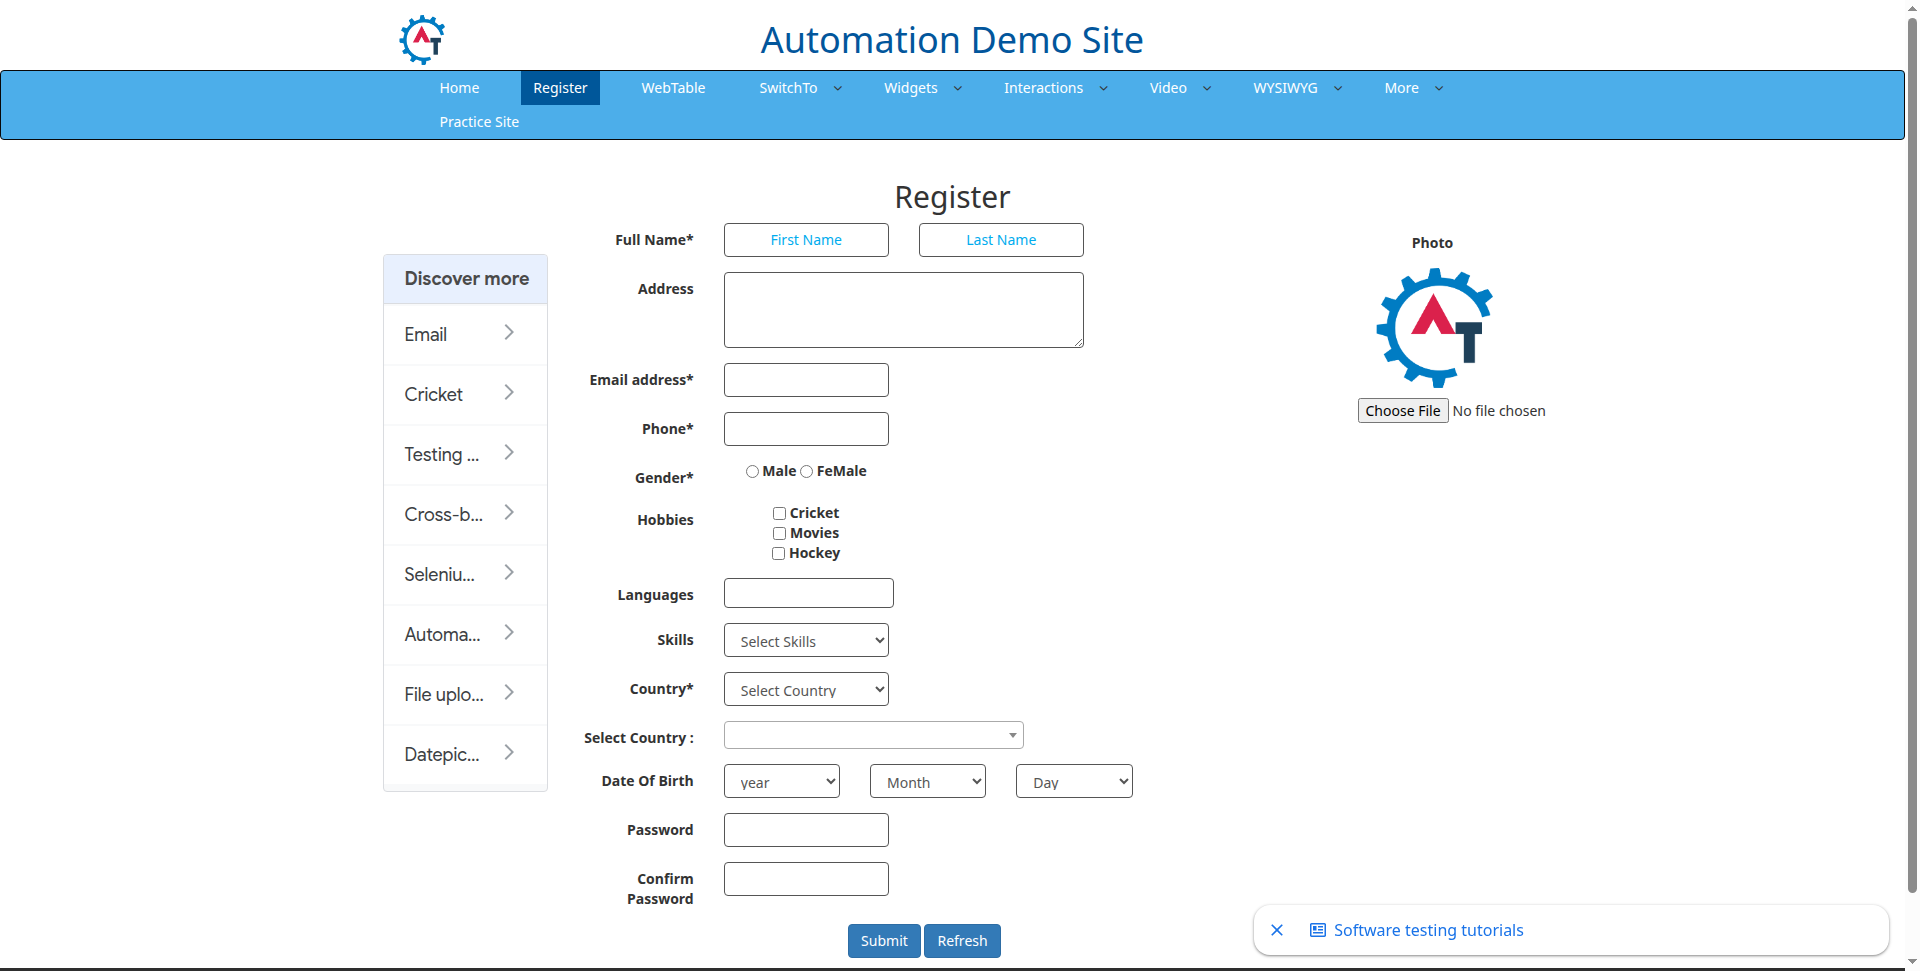
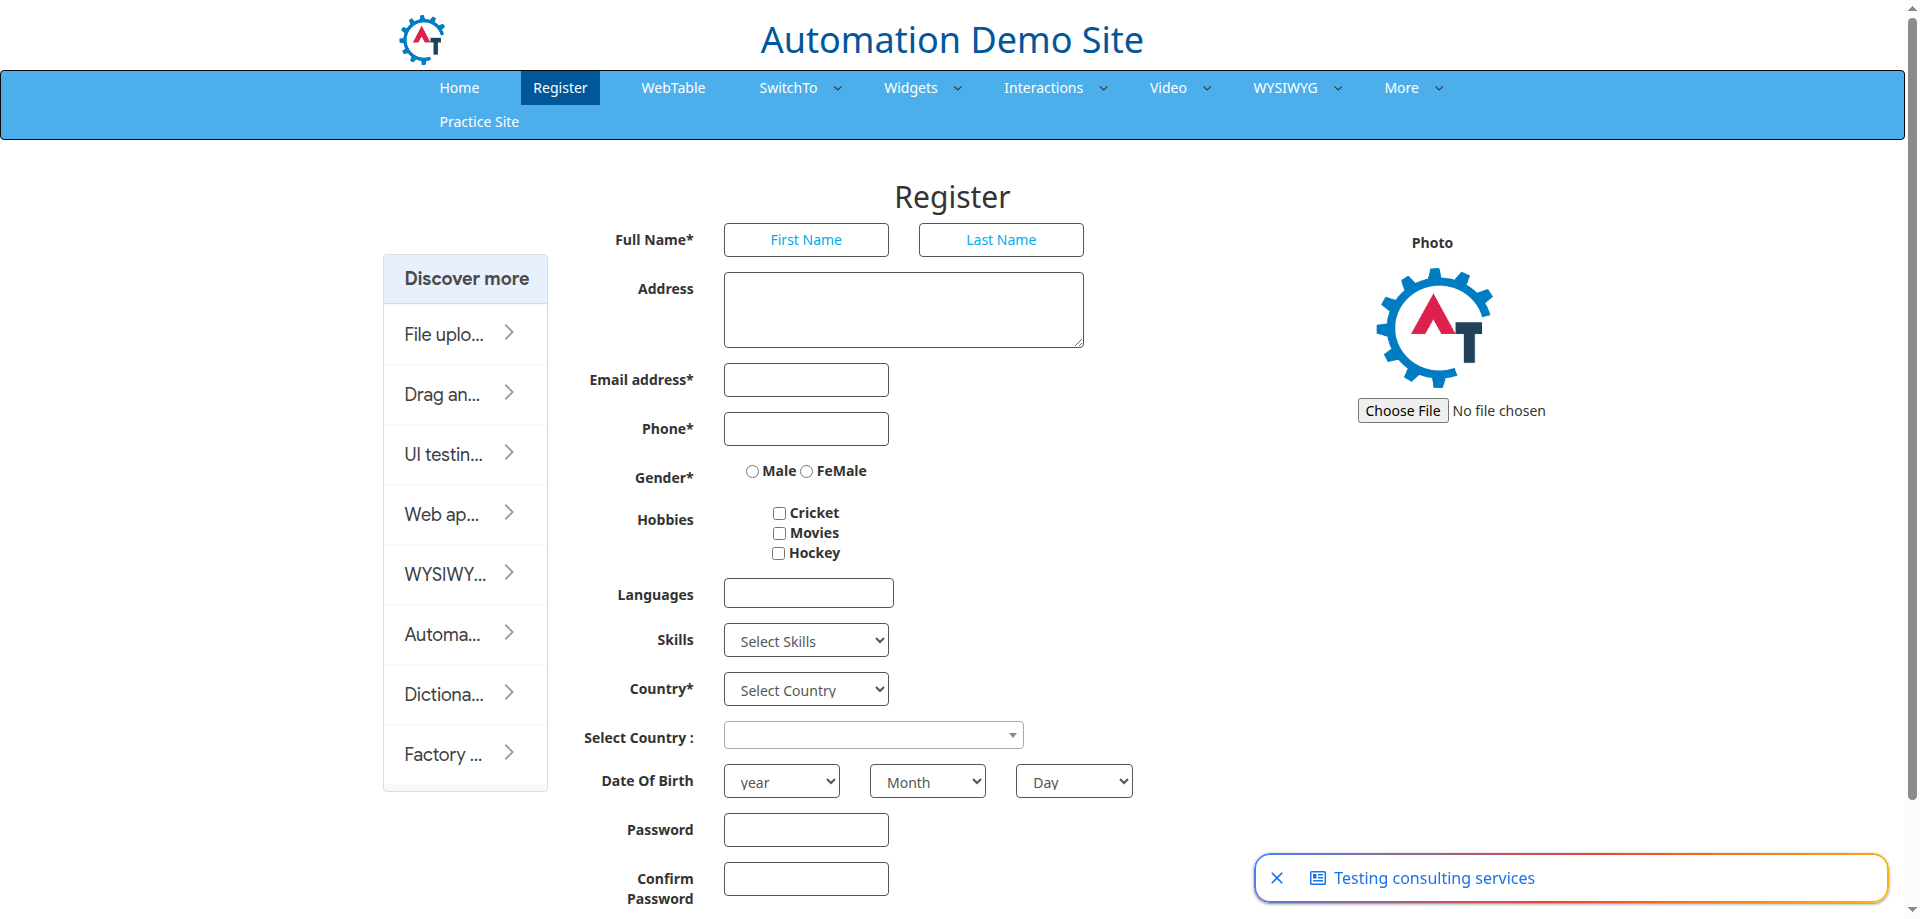
TC

diff --git a/compile-java-executable/113/testcases/TC_Web1.java b/compile-java-executable/113/testcases/TC_Web1.java
@@ -25,17 +25,19 @@ public class tc_web1 {
 	@Test(retryAnalyzer = RetryFailedTestCases.class)
 	public void tc_web1() {
 		tg.openBrowser();
-		tg.navigateToUrl("https://demo.automationtesting.in/Register.html");
-		tg.wait(5);
-		tg.wait("ele_firstname196", ComparisonType.IS_VISIBLE);
-		tg.click("ele_firstname196", 1);
-		tg.wait("ele_firstname196", ComparisonType.IS_VISIBLE);
-		tg.type("ele_firstname196", "#TGITVAR.userId");
-		tg.wait("ele_lastname374", ComparisonType.IS_VISIBLE);
-		tg.click("ele_lastname374", 1);
-		tg.wait("ele_lastname374", ComparisonType.IS_VISIBLE);
-		tg.type("ele_lastname374", "#TGITVAR.title");
-		tg.wait(5);
+				tg.navigateToUrl("https://demo.automationtesting.in/Register.html");
+				tg.wait(5);
+				tg.wait("ele_firstname196", ComparisonType.IS_VISIBLE);
+				tg.click("ele_firstname196", 1);
+				tg.wait("ele_firstname196", ComparisonType.IS_VISIBLE);
+				tg.type("ele_firstname196", "#TGITVAR.userId");
+				tg.wait("ele_lastname374", ComparisonType.IS_VISIBLE);
+				tg.click("ele_lastname374", 1);
+				tg.wait("ele_lastname374", ComparisonType.IS_VISIBLE);
+				tg.type("ele_lastname374", "#TGITVAR.title");
+				tg.wait(5);
+				tg.wait("ele_radioradio171", ComparisonType.IS_VISIBLE);
+				tg.click("ele_radioradio171", 1);
 		tg.close();
 	}
 }
